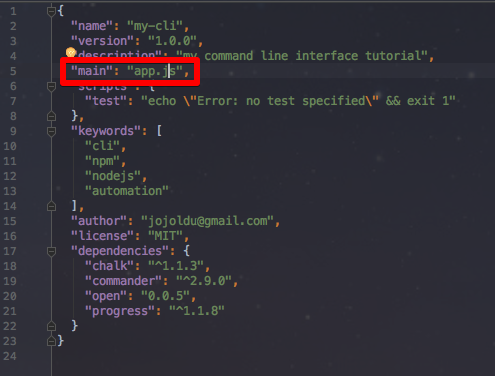
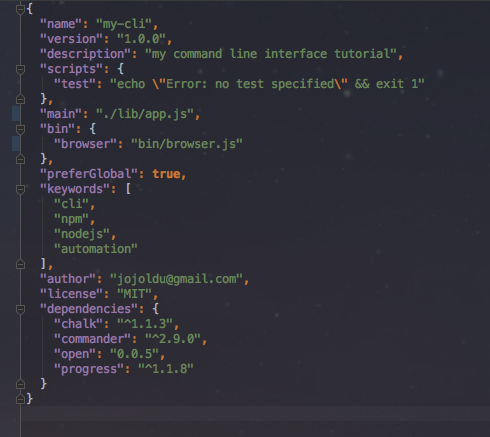
완성!!

diff --git a/bin/browser.js b/bin/browser.js
@@ -1,8 +1,3 @@
-/**
- * Created by jojoldu@gmail.com on 2017-01-18
- * Blog : http://jojoldu.tistory.com
- * Github : http://github.com/jojoldu
- */
-
+#!/usr/bin/env node
 var app = require('../lib/app');
 app.browser();

diff --git a/README.md b/README.md
@@ -1,19 +1,34 @@
 # 나만의 CLI (Command Line Interface) 만들기
-마우스로 하는 반복적인 작업이 있을 경우 이를 크게 생각하지 않는 사람이 있고, 이 행동이 귀찮아서 어떻게든 간단하게 해결할 수 있는 방법을 찾는데 더 시간을 쓰는 사람이 있습니다.
-이 포스팅은 후자를 위한 이야기입니다.
-nodejs를 이용하여 나만의 CLI를 만들어 귀찮은 일들은 전부 스크립트에 맡기자는 주제로 진행할 예정입니다.
+최근들어 반복적인 작업이 생기면 이걸 스크립트로 어떻게 자동화 할 수 있을까 고민하게 되었습니다. <br/>
+자동화 스크립트는 쉘스크립트나 파이썬이 대표적으로 떠오르지만, 웹개발을 주로 한 덕분에 자바스크립트에 더 친숙하여 보통은 nodejs가 더 손에 맞는것 같습니다. <br/>
+이번 시간은 저처럼 자바스크립트만 아는 개발자 분들에게 nodejs를 이용하여 나만의 CLI를 만들어 귀찮은 일들은 전부 스크립트에 맡기는 이야기를 진행할 예정입니다. <br/>
+모든 코드는 [Github](https://github.com/jojoldu/my-cli)에 있으니 전체 코드를 보고싶으시면 참고하시면 될것 같습니다. <br/>
+(공부한 내용을 정리하는 [Github](https://github.com/jojoldu/blog-code)와 세미나&책 후기를 정리하는 [Github](https://github.com/jojoldu/review) 를 star 하시면 실시간으로 feed를 받을 수 있습니다.)
+
+### 0. 주제
+이번 포스팅에서 만들 스크립트는 터미널에서 url과 브라우저명을 입력하면 해당 브라우저가 열리고 url로 자동이동이 되도록 하는 것입니다. <br/>
+아주 간단한 예제이지만, 이를 기반으로해서 다른 필요한 스크립트를 만드시는 기회가 되셨으면 좋겠습니다. <br/>
+자 그럼 이제 시작하겠습니다.
 
 ### 1. npm init
-nodejs 모듈를 만들것이기 때문에
+시작하기 앞서 [nodejs](https://nodejs.org/ko/)가 기본적으로 설치되어 있어야함을 말씀드립니다. (너무당연한걸 얘기한건가요?) <br/>
+현재 예제는 6.9.2로 진행중이지만, 다른 버전이라도 크게 문제는 없도록 진행할 예정이니 공식 홈페이지에서 LTS 버전을 바로 받아서 설치하시면 될것 같습니다. <br/>
+nodejs 모듈를 만들 것이기 때문에 my-cli이란 이름의 폴더 하나를 생성하여 해당 폴더에서 터미널로 ```npm init```을 실행시킵니다.
+
 ```
 npm init
 ```
 
-### 커맨드 라인 옵션 파싱하기
+![npm init](./images/npminit.png)
 
+엔터만 계속 쳐도 상관없지만 원하는 설정값이 있다면 하나씩 입력하셔도 무방합니다. <br/>
+```npm init```으로 **package.json**이 생성되었다면 바로 다음 단계로 넘어가시면 됩니다.
+
+### 2. 커맨드 라인 옵션 파싱하기
 npm이나 다른 node 모듈들을 사용할 때 보면 여러 옵션을 주면서 스크립트를 실행시키는 것이 기억나시나요? <br/>
-이렇게 커맨드라인 입력시 사용되는 옵션을 쉽게 구현하도록 도와주는 모듈가 바로 [commander.js](https://github.com/tj/commander.js)입니다. <br/>
+이렇게 커맨드라인 입력시 사용되는 옵션을 쉽게 구현하도록 도와주는 모듈이 바로 [commander.js](https://github.com/tj/commander.js)입니다. <br/>
 바로 설치와 사용을 해보겠습니다.
+
 ```
 npm install --save commander
 ```
@@ -43,11 +58,12 @@ commander
     .parse(process.argv);
 
 ```
+간단하게 입력한 값을 3번 출력하는 코드입니다. <br/>
 commander를 사용하는 코드는 이게 끝입니다. 이렇게 간단한 작성만으로 커맨드라인 옵션을 사용할 수 있게 되었습니다. <br/>
-```.arguments```는 옵션값 없이 전달 받을 값을 나타냅니다. <br/>
-```.option```는 원하는 옵션을 지정하고 해당 옵션으로 전달 받은 값을 스크립트 파일내에서 어떤 이름으로 사용할지를 지정할 수 있습니다. <br/>
-```.action```은 값을 입력 받은 후 실행시킬 함수를 지정합니다. <br/>
-```.parse```은 어디서 입력을 받는지를 나타냅니다. 여기선 커맨드라인 입력을 사용하기 때문에 ```process.argv```를 할당하였습니다. <br/>
+* ```.arguments```는 옵션값 없이 전달 받을 값을 나타냅니다.
+* ```.option```는 원하는 옵션을 지정하고 해당 옵션으로 전달 받은 값을 스크립트 파일내에서 어떤 이름으로 사용할지를 지정할 수 있습니다.
+* ```.action```은 값을 입력 받은 후 실행시킬 함수를 지정합니다.
+* ```.parse```은 어디서 입력을 받는지를 나타냅니다. 여기선 커맨드라인 입력을 사용하기 때문에 ```process.argv```를 할당하였습니다.
 
 그럼 한번 실행시켜보겠습니다.
 
@@ -60,14 +76,14 @@ node ./app.js -u jojoldu -e jojoldu@gmail.com 3
 ![commander 결과](./images/commander결과.png)
 
 멋지게 커맨드라인 옵션이 적용된 것을 볼 수 있습니다. <br/>
-```commander```의 경우 help 옵션이 기본으로 추가됩니다.
+```commander```의 경우 부가적으로 help 옵션이 기본으로 추가됩니다.
 
 ![commander 도움말](./images/commander도움말.png)
 
 기본적인 commander 사용법을 익혔으니 본격적인 매인 기능 구현을 진행해보겠습니다.
 
-### 브라우저 열기
-마찬가지로 관련된 npm 모듈를 하나 설치하겠습니다. 이번에 사용할 모듈는 [open](https://github.com/pwnall/node-open) 입니다. <br/>
+### 3. 브라우저 열기
+브라우저를 열기 위해 ```commander```와 마찬가지로 관련된 npm 모듈를 하나 설치하겠습니다. 이번에 사용할 모듈는 [open](https://github.com/pwnall/node-open) 입니다. <br/>
 이전처럼 ```npm install```을 이용하여 바로 설치하겠습니다.
 
 ```
@@ -98,10 +114,10 @@ commander
 ![크롬버그](./images/크롬버그.png)
 
 위와 같이 실행해야만 크롬을 실행시킬 수 있습니다. <br/>
-chrome로 실행시켜보시면 그 어떤 변화도 없으면서 관련해서 콘솔에 에러 로그가 나오지 않음을 확인 할 수 있습니다. <br/>
-분명히 문제가 있는 것 같은데 문제를 확인할 수 없기 때문에 이런 문제상황에 대한 에러처리를 추가해보겠습니다.
+자 근데!, chrome로 실행시켜보시면 그 어떤 실행도 없으면서, 관련해서 콘솔에 에러 로그가 나오지 않음을 확인 할 수 있습니다. <br/>
+분명히 문제가 있는 것 같은데 문제가 표기되지 않기 때문에 이런 문제상황에 대한 에러처리를 추가해보겠습니다.
 
-### 에러처리
+### 4. 에러처리
 ```open```모듈의 경우 3번째 인자로 콜백(callback)함수를 받을 수 있습니다. <br/>
 해당 콜백함수는 open 실행 후, 결과값에 대해 추가로 처리가 필요한 경우 사용하는 함수입니다. <br/>
 즉, **에러 발생시 3번째 인자로 전달한 콜백함수에서 에러를 전달 받아 처리**가 가능하다는 것입니다. <br/>
@@ -167,7 +183,7 @@ chalk 모듈의 경우 사용법이 아주 간단합니다. <br/>
 짜잔! 아주 이쁜 효과로 에러 로그가 출력됨을 확인할 수 있습니다. <br/>
 이젠 여기에 좀 더 화려한 효과를 추가해보겠습니다.<br/>
 
-### Progress bar 추가
+### 5. Progress bar 추가
 최근의 node 모듈들을 보면 수행시간이 걸리는 작업에 대해서는 모두 progress bar가 노출되어 수행과정을 보여줍니다. <br/>
 
 ![progress 예제](./images/progress예제.png)
@@ -198,15 +214,15 @@ var Progress = require('progress'),
 progress의 경우 사용하기 위해선 인스턴스 생성이 필요하여 new 키워드를 이용하여 필요한 인자값들을 추가하여 생성하였습니다. <br/>
 
 * ```'running [:bar] :percent :etas'``` : 노출될 progress bar UI를 결정합니다.
-  - [:bar] : progress bar
-  - :percent : 현재까지 진행된 %
-  - :etas : 현재까지 수행된 시간
+  - ```[:bar]``` : progress bar
+  - ```:percent``` : 현재까지 진행된 %
+  - ```:etas``` : 현재까지 수행된 시간
 
 * 두번째 인자인 객체
-  - complete : 진행된 상태에 따라 progress bar에 채울 문자 (디폴트: =)
-  - incomplete : 미 진행된 상태에 따라 progress bar에 채울 문자 (디폴트: -)  
-  - width : progress bar의 전체 진행 크기 (즉, complete로 채워질 전체 칸 수 정도로 생각하면 됩니다.)
-  - total : 완료할 틱의 총 수 (tick이란 단어가 어떤 의미인지 애매하네요. 개인적 생각으론 초 정도로 생각하고 사용중인데 혹시 의견 있으시면 댓글 부탁드립니다!)
+  - ```complete``` : 진행된 상태에 따라 progress bar에 채울 문자 (디폴트: =)
+  - ```incomplete``` : 미 진행된 상태에 따라 progress bar에 채울 문자 (디폴트: -)  
+  - ```width``` : progress bar의 전체 진행 크기 (즉, complete로 채워질 전체 칸 수 정도로 생각하면 됩니다.)
+  - ```total``` : 완료할 틱의 총 수 (tick이란 단어가 어떤 의미인지 애매하네요. 개인적 생각으론 초 정도로 생각하고 사용중인데 혹시 의견 있으시면 댓글 부탁드립니다!)
 
 전체 app.js의 코드는 아래와 같습니다.
 ```
@@ -243,7 +259,62 @@ commander
 ![progress](./images/progress.png)
 
 너무 짧은 수행시간이라 금방 100%가 채워지지만, 다운로드/업로드/파일작성 등 일정 시간이 필요한 작업의 경우에는 진행상태를 볼수있겠죠? <br/>
-자 이제 작업은 다되었습니다. 우리의 스크립트를 PC 어디서도 사용할 수 있도록 설치를 해보겠습니다.
+자 이제 작업은 다되었습니다. 마지막으로 우리의 스크립트를 PC 어디서도 사용할 수 있도록 설치를 해보겠습니다.
 
-### 전역 설치
-전역 설치라고 하지만 사실 그 방법은 아주 간단합니다. <br/>
+### 6. 전역 설치
+현재까지 만든 node 모듈을 내 PC 어디서든 사용할 수 있도록 **전역 설치**를 진행하겠습니다. <br/>
+먼저 폴더 구조를 아래 사진과 같이 변경합니다.
+
+![전역설치폴더](./images/전역설치폴더.png)
+
+그리고 bin 폴더 아래에 browser.js 파일을 생성하고, lib 폴더 아래에 app.js를 옮기겠습니다. <br/>
+browser.js 파일에는 아래와 같은 코드를 추가하시면 됩니다.
+
+```
+#!/usr/bin/env node
+var app = require('../lib/app');
+app.browser();
+```
+특히 첫 줄을 꼭 넣으셔야 합니다. <br/>
+```#!/usr/bin/env node```이 부분이 코드를 어떤 스크립트로 실행을 시킬것인지 명시하는 것입니다. <br/>
+이전에 bash shell을 사용해보신 분들이라면 ```#!/bin/bash```와 같은 역할이라고 이해하시면 될것 같습니다.<br/>
+
+* bin폴더의 경우 실제로 실행 파일 역할을 하는 것이라고 보시면 됩니다. <br/>
+* lib폴더는 우리가 만든 자동화 스크립트가 포함되었습니다.
+
+모듈화 작업이 다되었으니 package.json을 수정하여 어떻게 이 모듈을 실행할 수 있을지에 대해 설정을 수정하도록 하겠습니다. <br/>
+(package.json의 설정 값에 대한 것은 [감성프로그래밍님의 블로그](http://programmingsummaries.tistory.com/385)에 상세하게 기록되어있으니 꼭 보시길 바랍니다.)
+
+![package.json](./images/package.png)
+
+다른 설정은 마음대로 하셔도 되지만 딱 2가지는 지켜주셔야 합니다. <br/>
+* ```bin``` : 현재 모듈의 실행파일을 지정합니다.
+  - ```browser``` : 이제 이 모듈을 browser 이란 명령어로 실행시킬 수 있습니다.
+  - ```bin/browser.js``` : 위 명령어 입력시 실행시킬 파일을 지정합니다.
+* ```preferGlobal``` : 로컬 설치시에 경고메세지를 제공하는 옵션입니다. 이 옵션이 없다하여도 큰 문제는 없지만, 전역 설치를 위한 모듈이기에 로컬 설치시 의도에 맞지 않음을 알려주기 위함입니다.
+
+위와 같이 package.json가 설정되어 있으면 바로 아래 명령어로 **전역설치**를 진행하시면 됩니다.
+
+```
+npm install -g
+```
+여기서 맥이나 리눅스 사용자일 경우 권한획득을 위해 앞에 ```sudo```를 추가하셔야만 합니다. (아래 그림 참고)
+
+![전역설치](./images/전역설치.png)
+
+이러면 이제 설치가 끝난것입니다. <br/>
+그럼 잘 설치가 되었는지 확인을 하기 위해 아무곳에서 터미널을 열어 명령어를 실행해보겠습니다. <br/>
+
+![전역설치 후](./images/전역설치후사용.png)
+
+브라우저가 잘 오픈되는 것이 보이시나요? <br/>
+이제 드디어 우리만의 자동화 스크립트가 완성되었습니다. <br/>
+
+### 마무리
+간단하게 자기만의 node 모듈을 생성해보았습니다. <br/>
+전에 만들었던 markdown-tistory 역시 이러한 과정을 거치면서 제작되었습니다.<br/>
+물론 아직 부족한게 많아 계속 버전업하고 있는 단계이지만, 확실히 전에 하던 노가다성 작업을 명령어 한번에 실행시킬 수 있게 되어 정말 편하게 포스팅하고 있습니다. <br/>
+저와 같이 불편을 느끼셨던 분들에게 조금이나마 도움이 되셨길 바랍니다. <br/>
+만약 여기서 추가로 [npmjs](https://www.npmjs.com/)에 본인의 모듈을 등록하고 싶다면 [아웃사이더님의 블로그](https://blog.outsider.ne.kr/829)를 참고하시면 아주 쉽고 빠르게 npm 패키지로 등록하실 수 있습니다. <br/>
+앞으로도 비정기적으로 Java & Spring 외에도 node와 관련한 포스팅을 하겠습니다. <br/>
+끝까지 읽어주셔서 감사합니다!!
